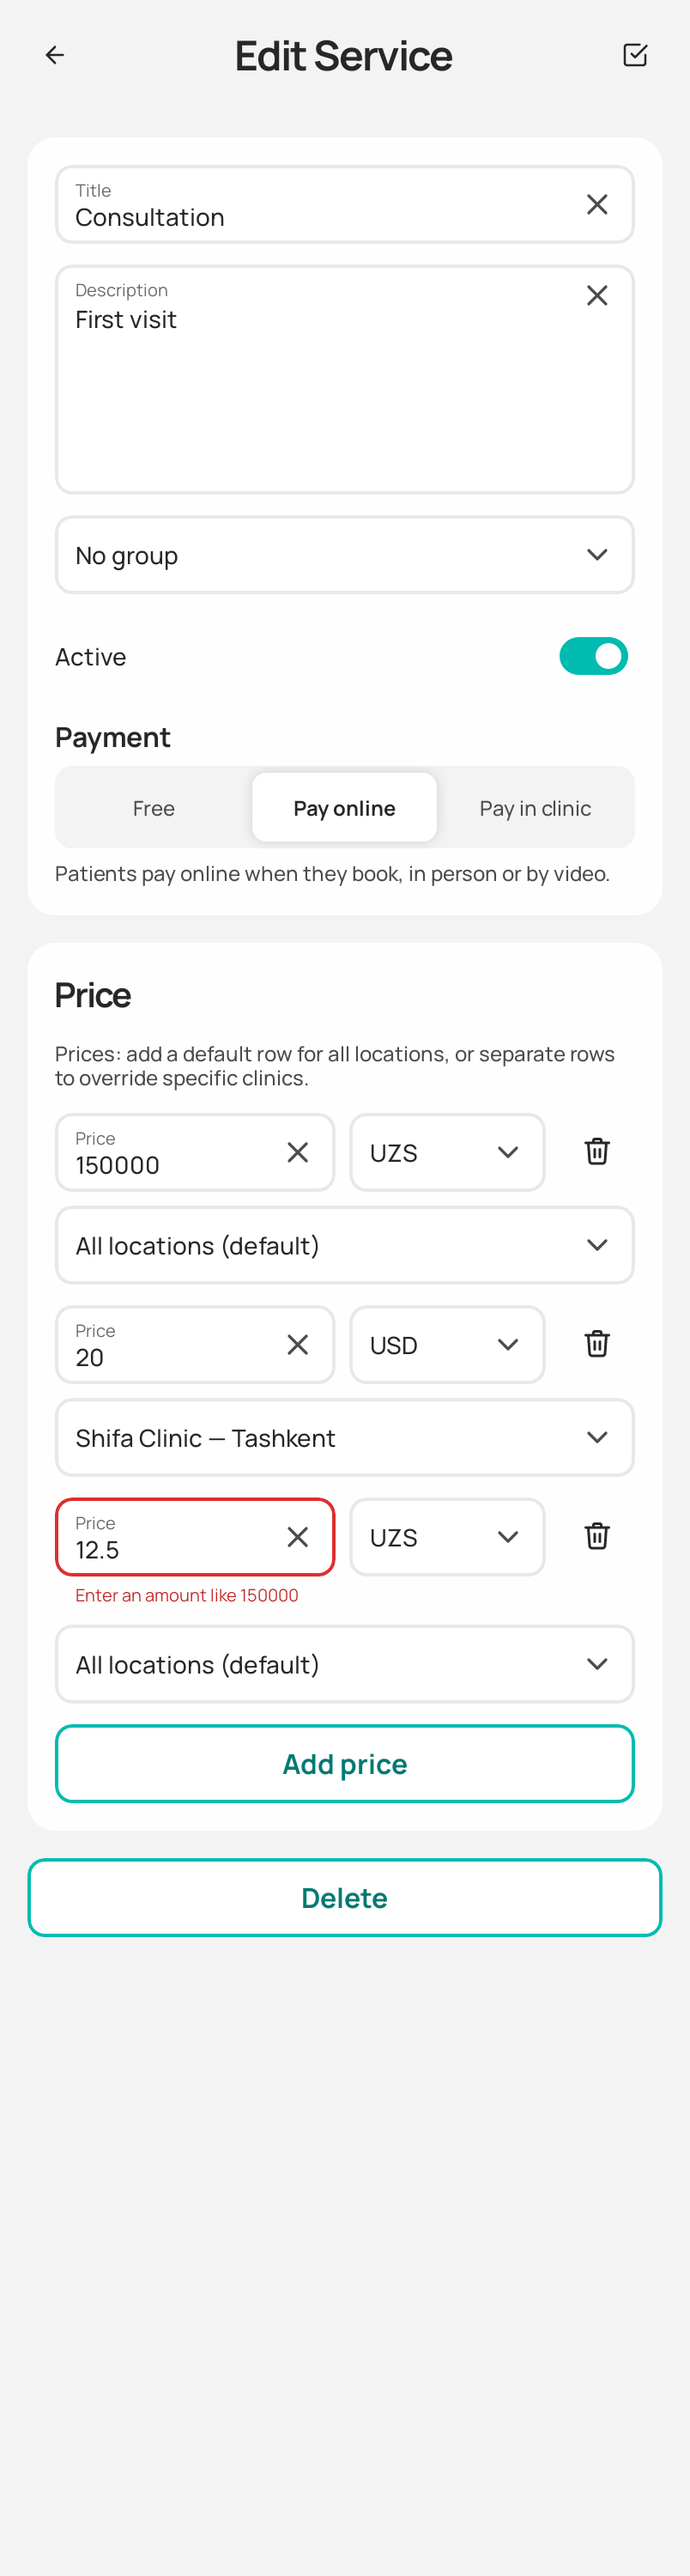
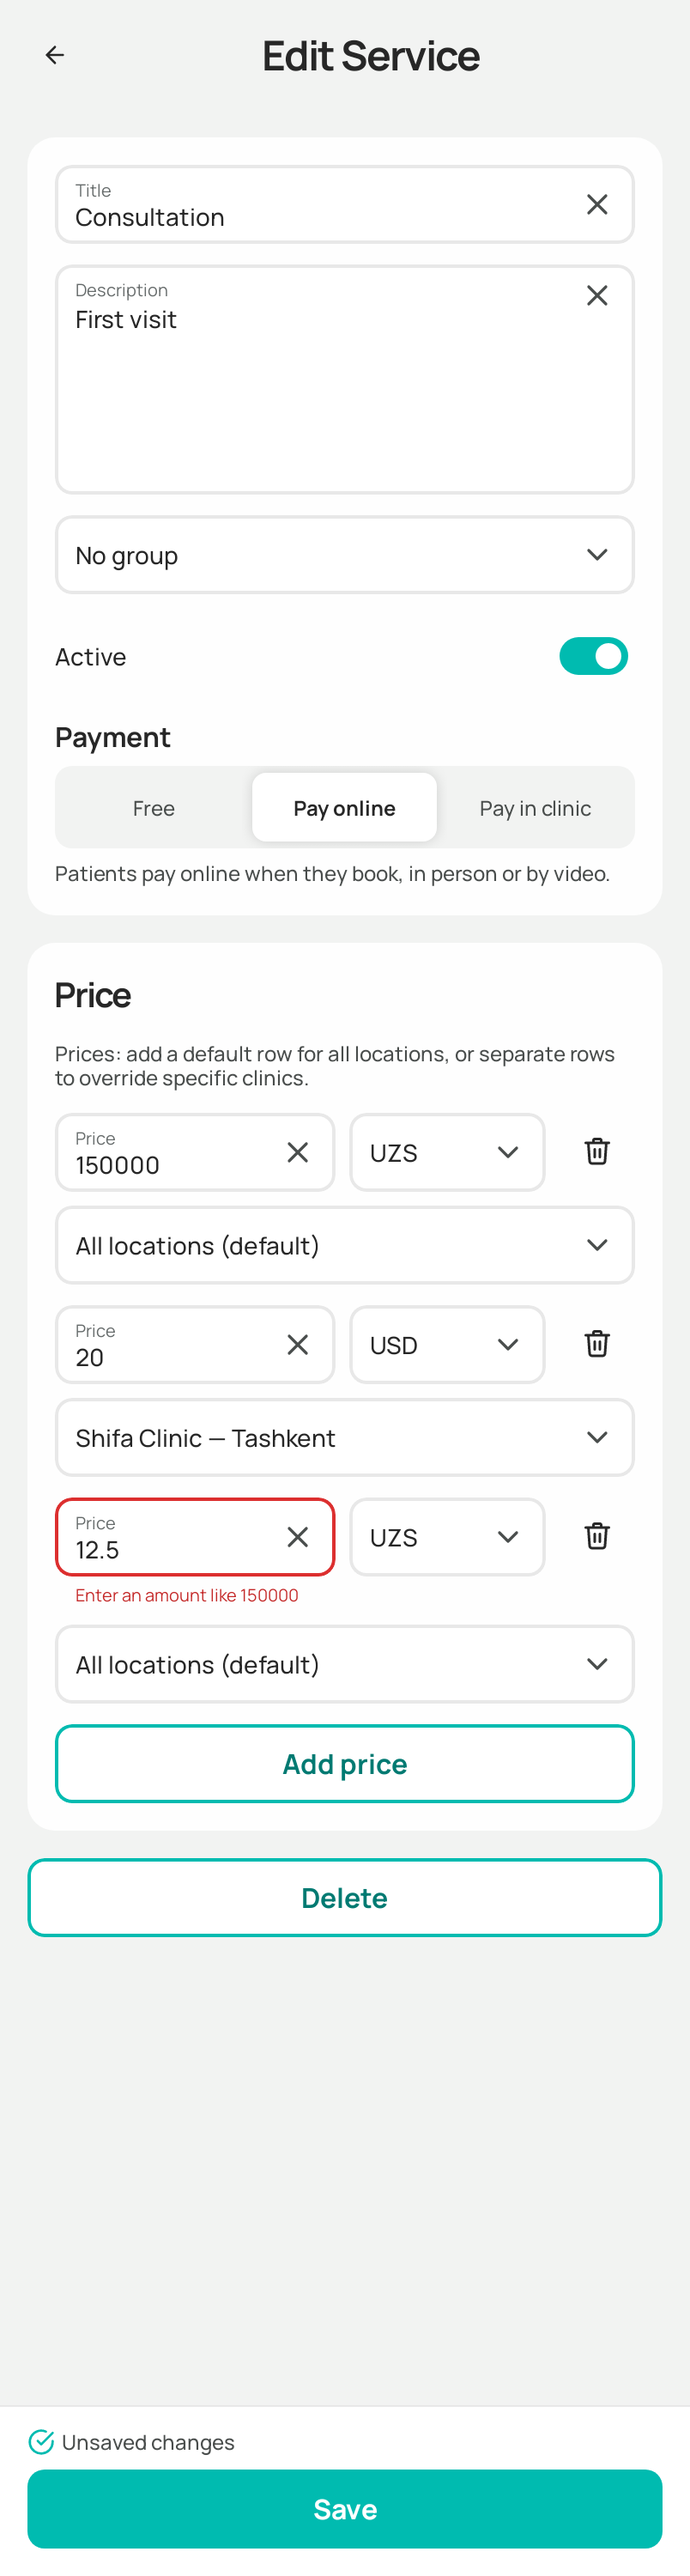
feat(profile): show a save bar at the bottom of every profile form

Changed region(s): [[0.0311, 0.93, 0.9639, 0.992], [0.342, 0.0, 0.6841, 0.031], [0.9017, 0.0, 0.9328, 0.031]]

diff --git a/composeApp/src/commonMain/kotlin/shifa/doctor/ui/profile/ProfileForms.kt b/composeApp/src/commonMain/kotlin/shifa/doctor/ui/profile/ProfileForms.kt
@@ -2,18 +2,22 @@ package shifa.doctor.ui.profile
 
 import androidx.compose.foundation.background
 import androidx.compose.foundation.layout.Arrangement
+import androidx.compose.foundation.layout.Box
 import androidx.compose.foundation.layout.Column
 import androidx.compose.foundation.layout.ColumnScope
 import androidx.compose.foundation.layout.fillMaxSize
+import androidx.compose.foundation.layout.fillMaxWidth
 import androidx.compose.foundation.layout.imePadding
 import androidx.compose.foundation.layout.padding
 import androidx.compose.foundation.layout.statusBarsPadding
+import androidx.compose.foundation.layout.widthIn
 import androidx.compose.foundation.rememberScrollState
 import androidx.compose.foundation.verticalScroll
 import androidx.compose.runtime.Composable
 import androidx.compose.runtime.LaunchedEffect
 import androidx.compose.runtime.getValue
 import androidx.compose.runtime.rememberUpdatedState
+import androidx.compose.ui.Alignment
 import androidx.compose.ui.ExperimentalComposeUiApi
 import androidx.compose.ui.Modifier
 import androidx.compose.ui.backhandler.BackHandler
@@ -25,17 +29,22 @@ import shifa.doctor.generated.resources.discardChangesTitle
 import shifa.doctor.generated.resources.ic_alert_circle_16
 import shifa.doctor.generated.resources.ic_trash_22
 import shifa.doctor.generated.resources.keepEditing
+import shifa.doctor.generated.resources.noChangesYet
 import shifa.doctor.generated.resources.openSettings
 import shifa.doctor.generated.resources.save
+import shifa.doctor.generated.resources.unsavedChanges
 import shifa.doctor.ui.navigation.openPermissionSettings
 import shifa.doctor.ui.theme.ShifaColors
+import shifa.doctor.ui.theme.ShifaDimens
 import shifa.doctor.ui.theme.ShifaSize
 import shifa.doctor.ui.theme.ShifaSpacing
+import shifa.doctor.ui.widgets.ActionBar
 import shifa.doctor.ui.widgets.DialogTone
 import shifa.doctor.ui.widgets.ShifaBanner
 import shifa.doctor.ui.widgets.ShifaBannerType
 import shifa.doctor.ui.widgets.ShifaDialogSheet
 import shifa.doctor.ui.widgets.ShifaLink
+import shifa.doctor.ui.widgets.ShifaPrimaryButton
 import shifa.doctor.ui.widgets.ShifaSheetHost
 import shifa.doctor.ui.widgets.ShifaSubHeader
 import shifa.doctor.utils.tr
@@ -82,7 +91,11 @@ internal fun FormExitEffects(
     BackHandler(onBack = back)
 }
 
-/** A pushed edit form: header with Back and (when [onSave] is set) the Save check, then a scrolling column. */
+/**
+ * A pushed edit form (board `DaProfile`): the header with Back, a scrolling column, and the design's `ActionBar` at the
+ * bottom: "Unsaved changes" / "No changes yet" and Save, always in view. [onSave] is null while there is nothing to
+ * save or a save is running (the button is off). On wide screens the form and the bar keep to `layout-form-wide`.
+ */
 @Composable
 internal fun ProfileForm(
     title: String,
@@ -93,19 +106,18 @@ internal fun ProfileForm(
     onKeep: () -> Unit,
     content: @Composable ColumnScope.() -> Unit,
 ) {
-    Column(Modifier.fillMaxSize().background(ShifaColors.Bg.Canvas)) {
-        ShifaSubHeader(
-            title,
-            Modifier.statusBarsPadding(),
-            onBack = onBack,
-            onCheck = onSave,
-            checkDescription = Res.string.save,
-        )
-        Column(
-            Modifier.weight(1f).imePadding().verticalScroll(rememberScrollState()).padding(ShifaSpacing.Inset.Md),
-            verticalArrangement = Arrangement.spacedBy(ShifaSpacing.Stack.Md),
-            content = content,
-        )
+    Column(Modifier.fillMaxSize().background(ShifaColors.Bg.Canvas).imePadding()) {
+        ShifaSubHeader(title, Modifier.statusBarsPadding(), onBack = onBack)
+        Box(Modifier.weight(1f).fillMaxWidth().verticalScroll(rememberScrollState()), Alignment.TopCenter) {
+            Column(
+                Modifier.widthIn(max = ShifaDimens.Layout.FormWide).fillMaxWidth().padding(ShifaSpacing.Inset.Md),
+                verticalArrangement = Arrangement.spacedBy(ShifaSpacing.Stack.Md),
+                content = content,
+            )
+        }
+        ActionBar(state = tr(if (onSave != null) Res.string.unsavedChanges else Res.string.noChangesYet)) { m ->
+            ShifaPrimaryButton(tr(Res.string.save), { onSave?.invoke() }, m, enabled = onSave != null)
+        }
     }
     if (askDiscard) DiscardChangesSheet(onDiscard, onKeep)
 }

diff --git a/composeApp/src/commonMain/kotlin/shifa/doctor/ui/widgets/Forms.kt b/composeApp/src/commonMain/kotlin/shifa/doctor/ui/widgets/Forms.kt
@@ -10,6 +10,7 @@ import androidx.compose.foundation.layout.fillMaxWidth
 import androidx.compose.foundation.layout.height
 import androidx.compose.foundation.layout.navigationBarsPadding
 import androidx.compose.foundation.layout.padding
+import androidx.compose.foundation.layout.widthIn
 import androidx.compose.material3.HorizontalDivider
 import androidx.compose.material3.Icon
 import androidx.compose.material3.MaterialTheme
@@ -25,6 +26,7 @@ import org.jetbrains.compose.resources.painterResource
 import shifa.doctor.generated.resources.Res
 import shifa.doctor.generated.resources.ic_check_circle_16
 import shifa.doctor.ui.theme.ShifaColors
+import shifa.doctor.ui.theme.ShifaDimens
 import shifa.doctor.ui.theme.ShifaRadius
 import shifa.doctor.ui.theme.ShifaSize
 import shifa.doctor.ui.theme.ShifaSpacing
@@ -42,21 +44,15 @@ fun ActionBar(
     secondary: (@Composable (Modifier) -> Unit)? = null,
     primary: @Composable (Modifier) -> Unit,
 ) {
-    Column(modifier.fillMaxWidth().background(ShifaColors.Bg.Surface)) {
+    Column(
+        modifier.fillMaxWidth().background(ShifaColors.Bg.Surface),
+        horizontalAlignment = Alignment.CenterHorizontally,
+    ) {
         HorizontalDivider(thickness = ShifaSize.S1, color = ShifaColors.Border.Default)
-        Column(
-            Modifier
-                .navigationBarsPadding()
-                .padding(
-                    start = ShifaSpacing.Inset.Md,
-                    end = ShifaSpacing.Inset.Md,
-                    top = ShifaSpacing.Inset.Sm,
-                    bottom = ShifaSpacing.Inset.Md,
-                ),
-            verticalArrangement = Arrangement.spacedBy(ShifaSpacing.Gap.Sm),
-        ) {
+        val note = @Composable { m: Modifier ->
             state?.let {
                 Row(
+                    m,
                     horizontalArrangement = Arrangement.spacedBy(ShifaSpacing.Gap.Xs),
                     verticalAlignment = Alignment.CenterVertically,
                 ) {
@@ -64,8 +60,34 @@ fun ActionBar(
                     Text(it, style = ShifaTextStyles.kpiLabel(), color = ShifaColors.Text.Secondary)
                 }
             }
-            secondary?.invoke(Modifier.fillMaxWidth())
-            primary(Modifier.fillMaxWidth())
+        }
+        val padding =
+            Modifier
+                .navigationBarsPadding()
+                .padding(
+                    start = ShifaSpacing.Inset.Md,
+                    end = ShifaSpacing.Inset.Md,
+                    top = ShifaSpacing.Inset.Sm,
+                    bottom = ShifaSpacing.Inset.Md,
+                )
+        if (LocalWideLayout.current) {
+            // `.dr-actionbar__inner` on web: at most `layout-form-wide`, the note at the left, the actions (at least
+            // 160 wide) at the right, the primary last.
+            Row(
+                Modifier.widthIn(max = ShifaDimens.Layout.FormWide).fillMaxWidth().then(padding),
+                horizontalArrangement = Arrangement.spacedBy(ShifaSpacing.Gap.Sm),
+                verticalAlignment = Alignment.CenterVertically,
+            ) {
+                Box(Modifier.weight(1f)) { note(Modifier) }
+                secondary?.invoke(Modifier.widthIn(min = ShifaSize.S160))
+                primary(Modifier.widthIn(min = ShifaSize.S160))
+            }
+        } else {
+            Column(padding, verticalArrangement = Arrangement.spacedBy(ShifaSpacing.Gap.Sm)) {
+                note(Modifier)
+                secondary?.invoke(Modifier.fillMaxWidth())
+                primary(Modifier.fillMaxWidth())
+            }
         }
     }
 }

diff --git a/docs/implemented/README.md b/docs/implemented/README.md
@@ -437,3 +437,4 @@ Recorded so they are not re-litigated. IDs are from `17-master-plan.md` §3.
 - 2026-11-11 · SVC-03 · Services choose Free, Pay online or Pay in clinic (`paymentType`); pay-in-clinic visits show a chip in the calendar. The user's defaults: clinic catalogue services stay pay-online, no "mark as paid".
 - 2026-11-11 · PROF-07 · Map picker: "Use my location" (Android, iOS, web) and Confirm fills the address fields from the pin (BE-15 reverse geocoding); the user's report.
 - 2026-11-14 · DESIGN-REVIEW · The designer's review of 12 Nov 2026 (D1–D18; the PDF ends there, D19–D28 not received), see `design-system.md` "Design review 12 Nov 2026". One sheet host (tray on phones, centred dialog from 560), overlay dropdowns, flat buttons, one page toolbar and action order, Home gaps and links, the range dialog on `MonthCalendar`, Calendar Day / Week / Month with Today, layered chat panes with an empty state, a 720 message column and the chat-bar composer, "Mark all as read" in the toolbar, splash blobs that fill any frame.
+- 2026-11-14 · PROF · Every profile form (personal info, contact, billing, extended, security, services, groups, locations) has the board's `ActionBar`: "Unsaved changes" / "No changes yet" and Save, always in view; the header's Save check is gone. Forms and the bar keep to 760 on wide screens. The user's report.

diff --git a/docs/implemented/profile.md b/docs/implemented/profile.md
@@ -476,3 +476,12 @@ Built 2026-11-07. Board `DaProfile` legalAbout. `AboutViewModel` + `data/legal/L
   then the pages; a failure with its request id and Retry). Clinic staff never ask.
 - **Demo:** the legal links, contract SHIFA-0461 and a one-page stand-in PDF.
 - **Tests:** `AboutViewModelTest`, `DemoBackendTest`; screenshot `About` re-recorded (Terms, Privacy, the contract).
+
+## Save bar (2026-11-14, the user's report)
+
+`ProfileForm` now ends with the board's `ActionBar` (`DaProfile` `dr-actionbar`): "Unsaved changes" / "No changes yet"
+and a Save button that is always in view and off while nothing changed or a save runs. It replaces the header's Save
+check, which showed only once something changed and was easy to miss. On wide screens the form column and the bar's
+content keep to `layout-form-wide` (760), the note at the left and Save at the right. The earlier notes above that
+mention "the Save check" describe the header as it was before this change.
+
